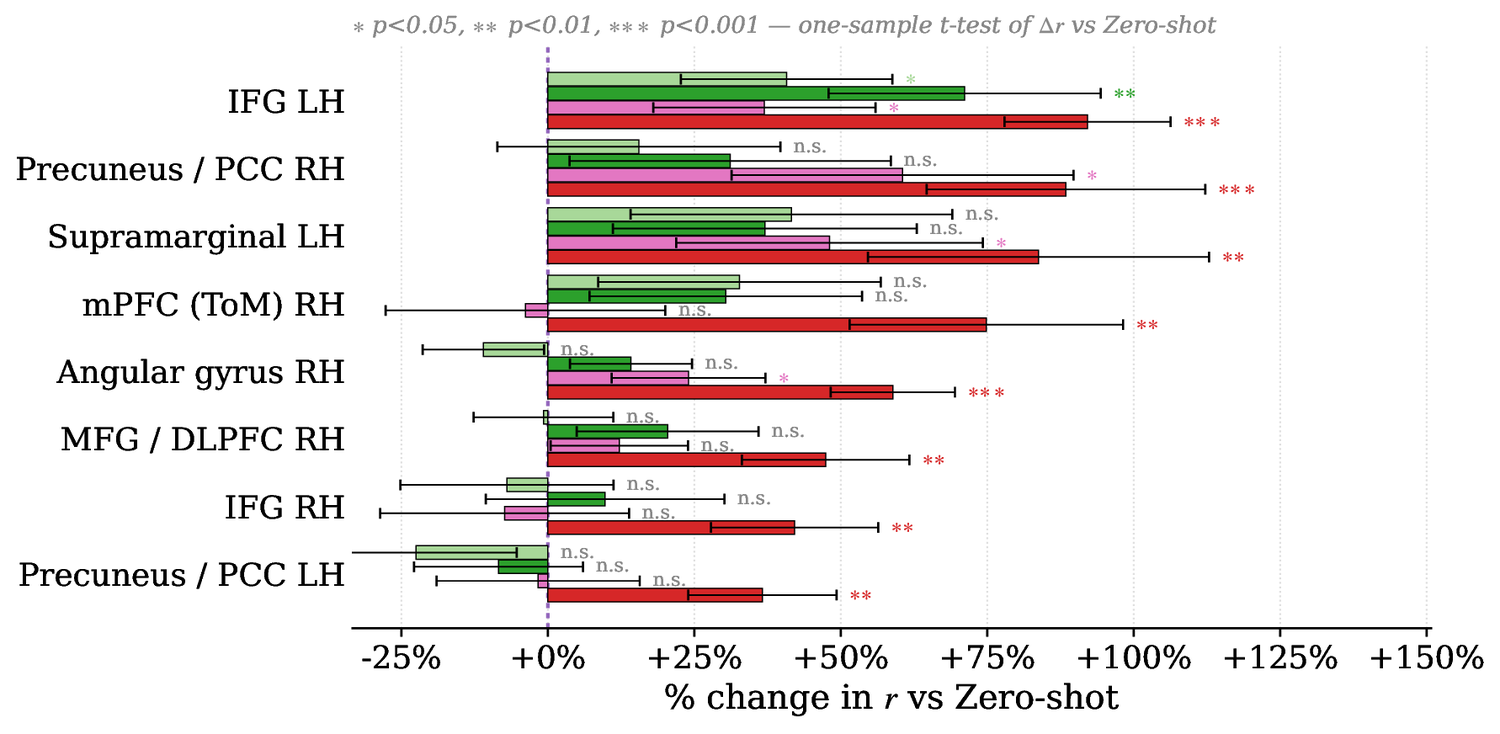
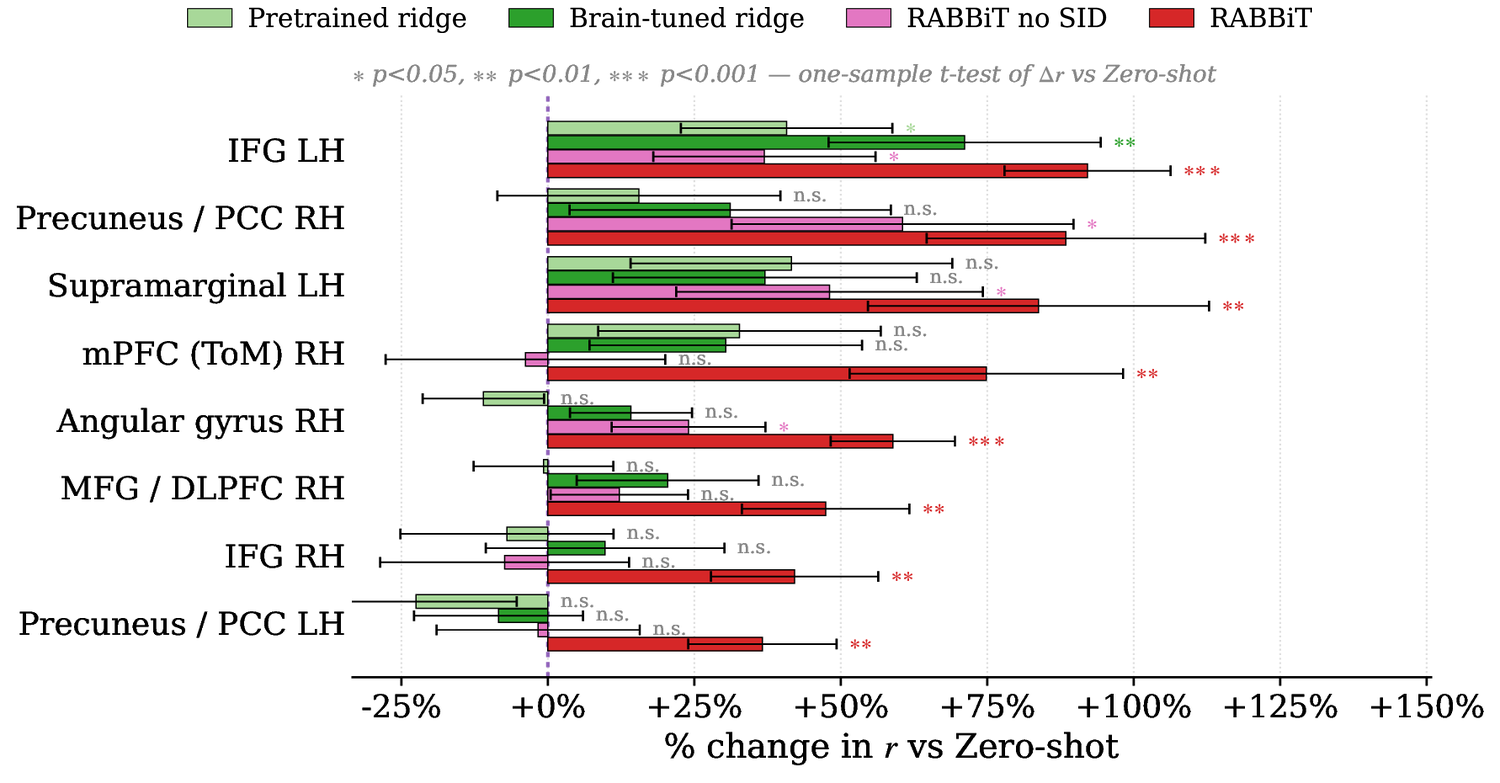
missing legends

Changed region(s): [[0.0, 0.0899, 1.0, 0.9891], [0.1227, 0.0, 0.8893, 0.0599], [0.7973, 0.3896, 0.828, 0.4196]]

diff --git a/site/index.html b/site/index.html
@@ -360,7 +360,7 @@
 
   <div class="figrow">
     <figure class="figmedia bordered">
-      <img loading="lazy" decoding="async" width="1500" height="687" src="assets/w2v_saturation_paper_4bar.png?v=2" alt="Few-shot vs ridge regression as a function of calibration time">
+      <img loading="lazy" decoding="async" width="1497" height="731" src="assets/w2v_saturation_paper_4bar.png?v=3" alt="Few-shot vs ridge regression as a function of calibration time, with a legend for the four series: pretrained ridge, brain-tuned ridge, RABBiT without SID, and RABBiT">
       <figcaption class="figcap"><span class="num">Fig 10</span>Mean language-ROI accuracy vs calibration time · markers are paired <em>t</em>-tests.</figcaption>
     </figure>
     <div class="figbody">
@@ -372,7 +372,7 @@
 
   <div class="figrow reverse">
     <figure class="figmedia bordered">
-      <img loading="lazy" decoding="async" width="1500" height="734" src="assets/per_roi_top_C400_with_direct.png?v=2" alt="Per-region percent change at 10 minutes, RABBiT few-shot vs ridge">
+      <img loading="lazy" decoding="async" width="1488" height="776" src="assets/per_roi_top_C400_with_direct.png?v=3" alt="Per-region percent change at 10 minutes, RABBiT few-shot vs ridge, with a legend for the four series: pretrained ridge, brain-tuned ridge, RABBiT without SID, and RABBiT">
       <figcaption class="figcap"><span class="num">Fig 11</span>Improvement over own zero-shot at ~10&nbsp;min · ∗∗&nbsp;/&nbsp;∗∗∗ vs zero-shot.</figcaption>
     </figure>
     <div class="figbody">
